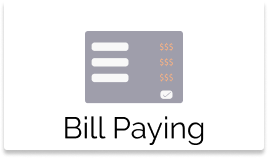
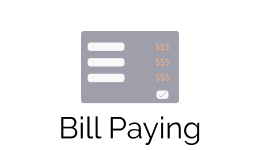
Made the button links for forms

Changed region(s): [[0.0, 0.72, 1.0, 0.9867], [0.3077, 0.1867, 0.7077, 0.6933], [0.5846, 0.2667, 0.6462, 0.3467]]

diff --git a/app/assets/stylesheets/components/_index.scss b/app/assets/stylesheets/components/_index.scss
@@ -2,4 +2,5 @@
 @import "alert";
 @import "avatar";
 @import "navbar";
-@import "background"
+@import "background";
+@import "button_links";

diff --git a/app/assets/stylesheets/components/_button_links.scss b/app/assets/stylesheets/components/_button_links.scss
@@ -1,0 +1,7 @@
+.button-links {
+  background: white;
+  color: #FE6600;
+  padding: 30px;
+  justify-content: center;
+  flex
+}
